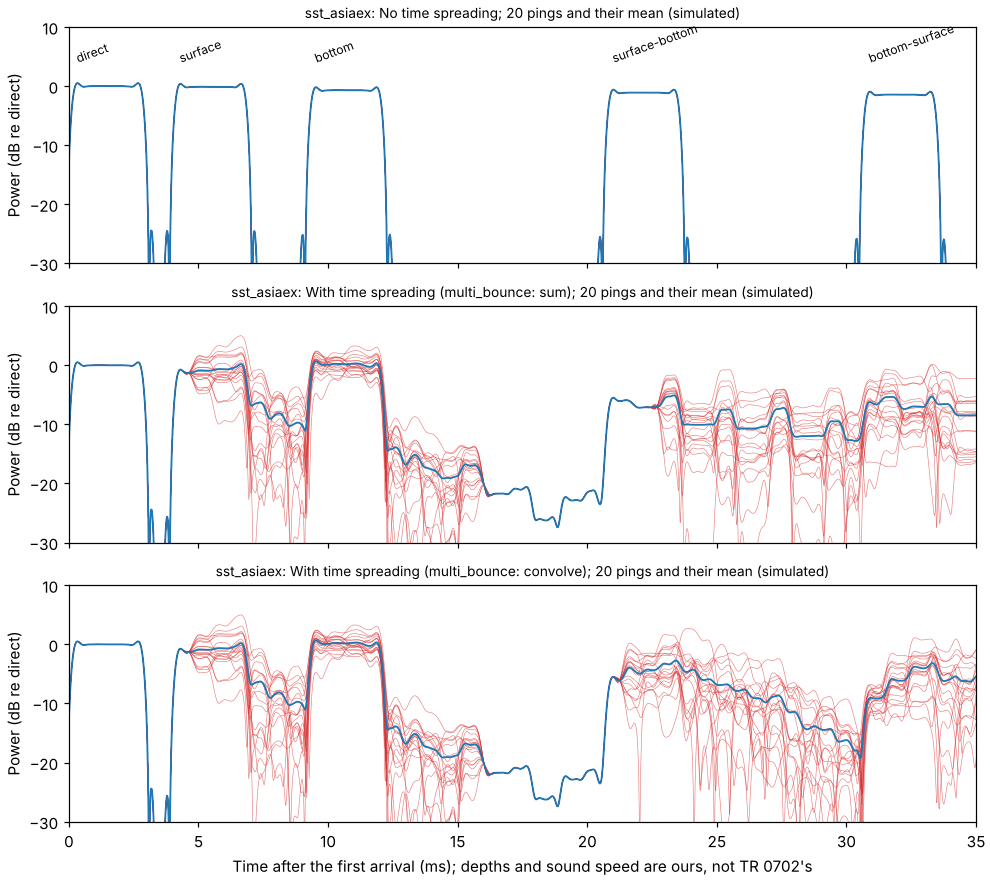
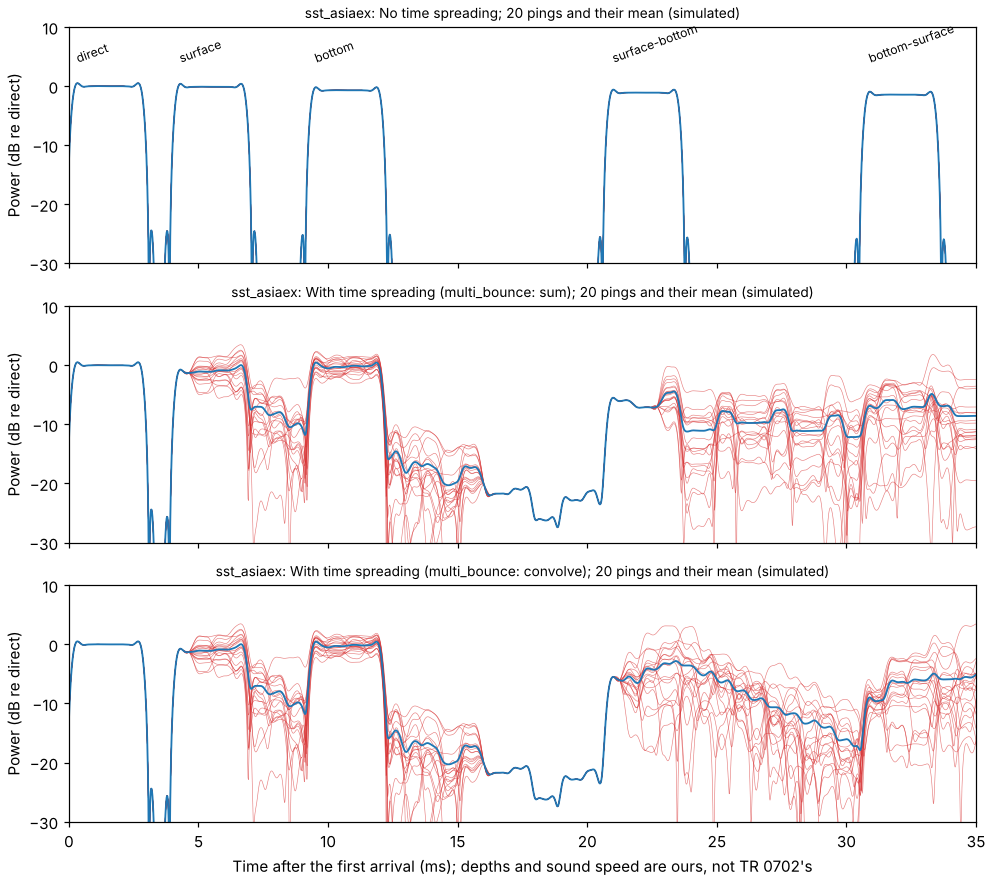
TR 0702 comparison names SST's Lorentzian Doppler spectrum (D-144); the sst_validation shift explained
Bisected between 5956b10 and e10b17f. Pursuit moved at 99665ef, source levels
as RMS (D-102): +3.01 dB in every level with echo or reverberation, intended.
ASIAEX moved at 710b7ef, the Gaussian default of D-84, which the reproduction
took although its comment said TR 0702's rules are named. Named Lorentzian
again: every ASIAEX value equals the 5956b10 run. test_sst_validation passes.

Claude-Session: https://claude.ai/code/session_01QhYtHta4HR3WascrfVLbGv

diff --git a/tools/sst_validation.py b/tools/sst_validation.py
@@ -642,9 +642,11 @@ def asiaex_runs(many: int = 200, seeds: int = 40, doppler_pings: int = 800) -> d
     fast = {"pings": {"count": int(doppler_pings), "interval": 0.05}}
     # TR 0702's own rules are what this reproduction compares with, so they are named: the
     # suite's defaults have since moved to `decay_time: facet` (D-85), `multi_bounce: convolve`
-    # (D-82) and `doppler_spectrum: gaussian` (D-84).
+    # (D-82) and `doppler_spectrum: gaussian` (D-84). The spectrum was not named here until
+    # D-144, so from D-84 on these runs took the Gaussian default (SST's AR(1) is Lorentzian).
     def run(overrides):
-        return _quiet_run(ASIAEX, {**overrides, "time_spread": {"decay_time": "rule_of_thumb", **overrides.get("time_spread", {})}})
+        return _quiet_run(ASIAEX, {**overrides, "time_spread": {"decay_time": "rule_of_thumb", "doppler_spectrum": "lorentzian",
+                                                                 **overrides.get("time_spread", {})}})
 
     return dict(
         flat=_quiet_run(ASIAEX, {"time_spread": None}),

diff --git a/docs/figures/sst_validation.md b/docs/figures/sst_validation.md
@@ -17,7 +17,7 @@ Emitted by `tools/sst_validation.py`. Two worked examples in TR 0702 are run wit
 | Sec. 3 with Sec. 12 | (ours) does time spreading of the surface-bounce echo matter in this example? | `time_spread` on the echo run | tests/python/test_sst_validation.py::test_pursuit_target_echo_is_the_simple_target_echo_model | No: the direct echo changes by 0.0e+00; the echo with a surface-reflected leg is -5.5 dB re the direct one, arrives after it, and its level changes by -0.7 dB (it becomes a random tail). None of the features checked depends on it: left out of the scenario file |
 | Sec. 3 | Signal includes noise produced by the fleeing target | `sources:` with `signal: {type: noise \| tonals}` | tests/python/test_oneway_sources.py::test_same_record_as_echoes_and_reverberation_and_default_unchanged | The feature exists and is tested (level, spectrum, Doppler); the Pursuit scenario file does not include a noisy target (TR 0702 gives no level for it) |
 | Sec. 3 | Five channels; inter-channel correlations are in the signal | 5 hydrophones, each with its pattern | tests/python/test_sst_validation.py::test_pursuit_scenario_holds_what_tr0702_states | 5 channels generated; coherence across them is covered by tests/python/test_reverb_statistics.py::test_direction_spread_gives_the_coherence_length |
-| Sec. 3 | Runs in a few seconds | - | - | 15 s for one ping of the scenario as written; 83 s for all the runs behind these rows (4 shared cores, CPU) |
+| Sec. 3 | Runs in a few seconds | - | - | 15 s for one ping of the scenario as written; 80 s for all the runs behind these rows (4 shared cores, CPU) |
 | Sec. 4.1.2, eqs. (4)-(6) | Complex envelope with sqrt(2), so that envelope power = signal power | envelopes of unit peak, no sqrt(2) (`sim/waveform.py`); \|envelope\| is the tone's amplitude | by design; tests/python/test_sampled_waveform.py::test_record_carries_the_pulse_in_its_existing_fields_and_survives_the_file | Convention differs (documented, PHYSICS_NOTES Sec. 15); levels here are checked in uPa through the sonar equation |
 | Sec. 4.1.3, 4.2, eqs. (7)-(13) | Windowed frequency domain, cross power spectra, scattering functions as data types | - | not applicable | Not SST's data-flow objects: our reverberation is generated in time from powers per direction |
 | Sec. 4.3 (script, p. 20-21) | VarDelay example: two tones, delay 1.00 ... 2.0 s; tones lowered as the delay grows | `sim/waveform.py` variable-delay resampler | tests/python/test_sampled_waveform.py::test_vardelay_script_of_tr0702_lowers_each_tone_by_one_minus_delay_rate | tones at n f1 (1 - dT/dt) within 0.02 Hz; output = x(t - T(t)) within 5.1e-3 (M = 6, Hann) [feature report] |
@@ -58,11 +58,11 @@ Emitted by `tools/sst_validation.py`. Two worked examples in TR 0702 are run wit
 | Sec. 12.4 | Coherent / incoherent split; stochastic FIR filter with Gaussian taps; AR(1) evolution | `sim/timespread.py` | tests/python/test_timespread.py | Structure as stated; the three formulas are in TR 9407 (not available), ours are substitutes |
 | Sec. 12.4 | Near-specular reverberation is removed when time spreading is on | - | cannot be checked | Feature we lack: reverberation takes the flat-boundary paths and is not reduced. No double counting with Lambert / Chapman-Harris (no specular lobe); there could be with a Kirchhoff bottom (not measured) |
 | Sec. 12.4, rmsHeight | Mostly incoherent if rmsHeight > wavelength / sin(grazing), mostly coherent if smaller | coherent intensity exp(-(4 pi h sin(g) / wavelength)^2) | tests/python/test_timespread.py::test_coherent_part_is_the_rayleigh_parameter_factor | consistent at both ends; ours is half coherent at h = 0.066 wavelength / sin(g). ASIAEX: surface 0.77, bottom 0.97 coherent |
-| Sec. 12.4, meanSquareSlope | Spreading time ~ mss x half the one-way time (mid-path bounce); mss x twice the shorter leg (near one end) | decay time 2 mss t1 t2 / (t1 + t2) | tests/python/test_sst_validation.py::test_asiaex_tails_decay_at_the_rule_of_thumb | fitted to the mean intensity after the pulse: surface 2.77 ms (rule 2.91), bottom 7.69 ms (rule 7.50; mss 0.045 as printed) |
+| Sec. 12.4, meanSquareSlope | Spreading time ~ mss x half the one-way time (mid-path bounce); mss x twice the shorter leg (near one end) | decay time 2 mss t1 t2 / (t1 + t2) | tests/python/test_sst_validation.py::test_asiaex_tails_decay_at_the_rule_of_thumb | fitted to the mean intensity after the pulse: surface 2.94 ms (rule 2.91), bottom 7.69 ms (rule 7.50; mss 0.045 as printed) |
 | Sec. 12.4, rmsVerticalSpeed (p. 101) | Doppler spread = f x rms vertical speed / (c x sin(grazing)) | 2 f v sin(g) / c | see readings, item 23 | Reading differs from the print (sin g, not 1 / sin g) |
-| Sec. 12.5, Figs. 4-5 | With time spreading: tails and ping-to-ping variation; direct path unchanged | `time_spread` as in the scenario | tests/python/test_sst_validation.py::test_asiaex_with_time_spreading_bounce_paths_get_tails_and_vary | std of level across 20 pings: direct 0.00 dB, surface 2.85 dB, bottom 1.30 dB, surface-bottom 1.78 dB, bottom-surface 2.63 dB; 0.3-0.7 ms after the pulse: surface -6 dB, bottom -15 dB |
+| Sec. 12.5, Figs. 4-5 | With time spreading: tails and ping-to-ping variation; direct path unchanged | `time_spread` as in the scenario | tests/python/test_sst_validation.py::test_asiaex_with_time_spreading_bounce_paths_get_tails_and_vary | std of level across 20 pings: direct 0.00 dB, surface 1.88 dB, bottom 0.97 dB, surface-bottom 1.41 dB, bottom-surface 3.34 dB; 0.3-0.7 ms after the pulse: surface -6 dB, bottom -15 dB |
 | Sec. 12.6 | Wind 3 m/s fits the tail, 4 m/s the variability (McDanielSurface) | Pierson-Moskowitz height, Cox-Munk slope | cannot be checked | Needs the McDaniel laws and the data of Dahl (2002); only figures in TR 0702 |
-| Sec. 12.6 | Multiple-bounce peaks: intensity too high immediately after the pulse and too low later | `multi_bounce: sum` against `convolve` (default) | tests/python/test_sst_validation.py::test_asiaex_two_bounce_tail_sum_against_convolve | ASIAEX parameters (bottom 0.93 coherent): `sum` is -2.8 dB right after the pulse and +3.0 dB later re `convolve` (tail centroid 3.1 against 2.1 ms) - the OPPOSITE sign; with two fully rough bounces of equal decay: +1.6 dB in the first half of the pulse, -0.9 dB 2-5 ms after it - the defect as TR 0702 describes it |
+| Sec. 12.6 | Multiple-bounce peaks: intensity too high immediately after the pulse and too low later | `multi_bounce: sum` against `convolve` (default) | tests/python/test_sst_validation.py::test_asiaex_two_bounce_tail_sum_against_convolve | ASIAEX parameters (bottom 0.93 coherent): `sum` is -2.3 dB right after the pulse and +3.7 dB later re `convolve` (tail centroid 3.1 against 2.1 ms) - the OPPOSITE sign; with two fully rough bounces of equal decay: +1.6 dB in the first half of the pulse, -0.8 dB 2-5 ms after it - the defect as TR 0702 describes it |
 | Sec. 12.2-12.5, Figs. 3-4 panels 3-5 | Scattering function at 1.5 and 0.1 ms updates; forward-scatter reverberation; total | - | cannot be checked | No near-specular surface scattering model here (TR 0702's is McDaniel's) and no removal of it; only figures, no numbers |
 | Sec. 12.2, Fig. 3 panel 1 | Measured ASIAEX data | - | cannot be checked | Data of Dahl (2002) not used; no numbers in TR 0702 |
 

diff --git a/docs/DECISIONS.md b/docs/DECISIONS.md
@@ -2295,3 +2295,18 @@ builds (the array's origin is not the ownship's depth), 0.005 m in free field. I
 two-row `shallow` and `rehearsal` runs one candidate folds to 60.7 and 64.0 m for a target
 at 60 m: the chain offered the right depth, and the angle rule failed it. Limit: in water
 with a profile the alternatives are folded along straight lines, not traced rays.
+
+### D-144 The TR 0702 comparison names SST's Lorentzian Doppler spectrum
+
+`tools/sst_validation.py` runs the ASIAEX reproduction with TR 0702's own rules named, so
+that later changes of the suite's defaults do not move it; its comment listed the Doppler
+spectrum among them, but only `decay_time: rule_of_thumb` was named. From D-84 on, the
+ASIAEX runs took the Gaussian default, and the matrix moved without anyone choosing it: the
+surface's ping-to-ping variation 1.88 to 2.85 dB, the sum-against-convolve figures -2.3 /
++3.7 to -2.8 / +3.0 dB. Found by bisecting the file's shift between `5956b10` and `e10b17f`
+(two runs on one tree agree in every number, so each commit's output is fixed): ASIAEX
+moved at `710b7ef` (D-84); Pursuit moved at `99665ef`, source levels as RMS (D-102), 3.01 dB
+in every level with echo or reverberation in it, as that decision intended. The runs now
+name `doppler_spectrum: lorentzian` (SST's AR(1)), as they name the decay rule; the two
+runs that compare the spectra still name their own. With it every ASIAEX value equals the
+`5956b10` run. The suite's default stays Gaussian (D-84).

diff --git a/docs/STATUS.md b/docs/STATUS.md
@@ -244,11 +244,10 @@ Grouped; within a group the most consequential first.
     benchmark of every stage, and `DESIGN.md`. Three tools reuse stored results; they were
     rerun from empty files with the settings their tables name. Two tools were mended on the
     way (`tools/scenario_diagrams.py`, `tools/decay_time_sensitivity.py`). Still open:
-    - `docs/figures/sst_validation.*` moved against the run of `5956b10` (ridge over noise
-      27.1 to 30.1 dB, ASIAEX ping-to-ping variation 1.88 to 2.85 dB at the surface). The
-      tool is deterministic (two runs on one tree agree in every number but its run time),
-      so the cause is a code change in the 40 or so commits between; the time-spreading
-      commit `f2bf420` is ruled out. Not bisected.
+    - `docs/figures/sst_validation.*`: the shift against the run of `5956b10` is explained
+      by bisection (D-144). Pursuit's levels are 3.01 dB higher by source levels as RMS
+      (D-102), as intended; ASIAEX had taken the Gaussian Doppler spectrum of D-84 and is
+      named Lorentzian again, its values equal to the earlier run.
     - The hand-written numbers `SCENARIOS.md` quotes for scenarios outside the gallery among
       the 44 whose sound speed moved (D-140) were measured at 1500 m/s.
 43. **The gallery regenerated after these changes (full-size CUDA run on an NVIDIA L4,

diff --git a/docs/SCENARIOS.md b/docs/SCENARIOS.md
@@ -723,8 +723,8 @@ figures were 1.2 Hz and 1.725 s (`RESULTS.md`).
 
 ASIAEX: arrivals at 0, 3.97, 9.20, 20.68 and 30.57 ms within 0.20 µs of the image
 equations; with time spreading the bounce arrivals grow tails (surface −6 dB, bottom
-−15 dB re peak after the pulse) and vary from ping to ping (surface 2.85 dB, bottom
-1.30 dB standard deviation over 20 pings; 1.88 and 0.97 dB in the run of `5956b10`).
+−15 dB re peak after the pulse) and vary from ping to ping (surface 1.88 dB, bottom
+0.97 dB standard deviation over 20 pings, with SST's Lorentzian Doppler spectrum, D-144).
 
 Made by: `PYTHONPATH=python python3 tools/sst_validation.py --out docs/figures/sst_validation.md --json docs/figures/sst_validation.json --figures docs/figures`
 (about 2 minutes on the CPU).

diff --git a/docs/HANDOFF.md b/docs/HANDOFF.md
@@ -200,8 +200,8 @@ Consequences that are open (STATUS items 38 to 43):
 - Stale generated files (`sonar-zxk`, STATUS item 42): regenerated at `e10b17f` on
   2026-11-19 and 20, each compared with the file it replaced (RESULTS). Three tools reuse
   stored results (`ssp_range_study`, `fjord_rehearsal`, `decay_time_sensitivity`): rerun
-  them into an empty `--json` file, with the settings their tables name. Still open: why
-  `sst_validation` moved since `5956b10` (deterministic; not bisected).
+  them into an empty `--json` file, with the settings their tables name. Why
+  `sst_validation` moved since `5956b10` is bisected and settled (D-144).
 
 ## 8. Other open work (bd issues)
 
